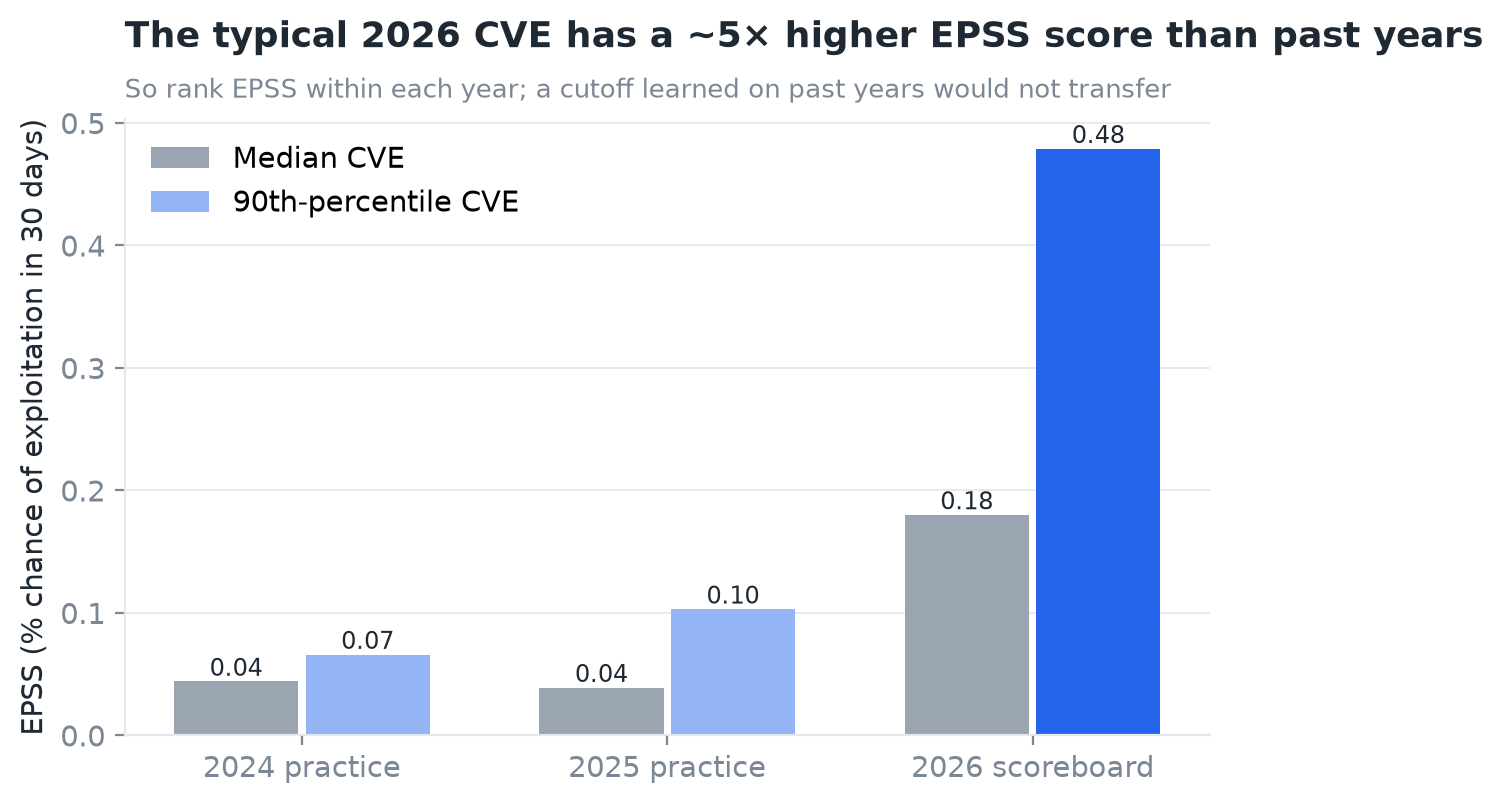
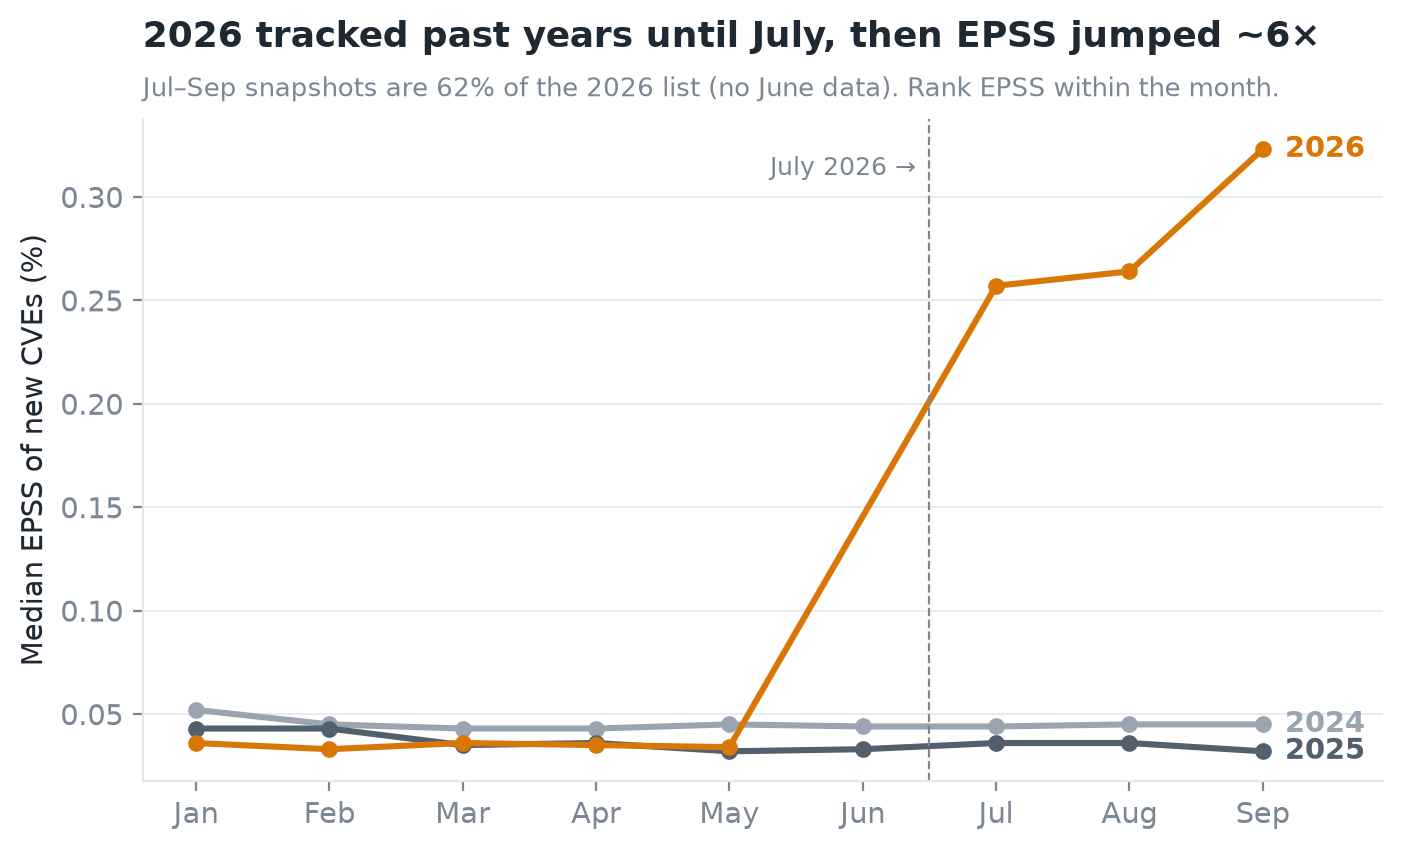
Follow v5 headline model; EPSS chart shows the July 2026 step; write-up, script and dashboard updated

diff --git a/site/story.js b/site/story.js
@@ -382,7 +382,7 @@
     });
     // the difference with its range
     const yd = H * 0.72, xd = d3.scaleLinear([-6, 10], [mL, W - mR]);
-    const [lo, hi] = h.diff_vs_baseline_cve_level_90, diff = h.pooled_hits_bag - h.baseline_pooled_hits;
+    const [lo, hi] = D.diff90, diff = h.pooled_hits_bag - h.baseline_pooled_hits;
     svg.append("text").attr("class", "lbl-big").attr("x", mL).attr("y", yd - 40).text("Our edge, with its 90% uncertainty range");
     svg.append("line").attr("x1", xd(0)).attr("x2", xd(0)).attr("y1", yd - 22).attr("y2", yd + 22).attr("stroke", C.muted).attr("stroke-dasharray", "3 3");
     svg.append("text").attr("class", "lbl-mute").attr("x", xd(0)).attr("y", yd + 40).attr("text-anchor", "middle").text("no difference");

diff --git a/site/index.html b/site/index.html
@@ -59,6 +59,7 @@
       <section class="step" data-scene="blind" data-step="2">
         <p class="lede">Our model caught <strong class="mint" data-key="blind.ours">2</strong> of the 44.</p>
         <p>That's small, and we won't pretend it isn't. But zero to two is the first sign of a signal the usual tools don't have: <em>the words</em>.</p>
+        <p class="fine">Blind-spot breakdown measured on our v4 model; the final v5 catches the same totals (12 + 9).</p>
       </section>
       <section class="step" data-scene="read" data-step="0">
         <p class="lede">What <strong>IBM Granite</strong> reads</p>

diff --git a/site/style.css b/site/style.css
@@ -43,6 +43,7 @@ code { font-size: .85em; color: var(--ink-2); }
 .step p { margin: 0 0 14px; color: var(--ink-2); }
 .step .lede { font: 600 clamp(24px, 2.4vw, 34px)/1.25 var(--serif); color: var(--ink); }
 .ember { color: var(--ember-glow); }
+.step p.fine { font-size: 13px; color: var(--muted); }
 .mint { color: var(--mint-glow); }
 .mute-num { color: var(--ink); }
 

diff --git a/src/b/charts.py b/src/b/charts.py
@@ -11,6 +11,7 @@ Each chart is drawn only if its inputs exist, so this can be rerun as files land
   leakage.png        honest vs leaky model hits (outputs/leakage_results.csv, issue #8)
 """
 import json
+import re
 
 import numpy as np
 import pandas as pd
@@ -22,6 +23,20 @@ from src.common.paths import OUT_DIR, REPO_ROOT
 FIG_DIR = REPO_ROOT / "docs" / "figures"
 BASE_NAMES = {"baseline_cvss": "Highest CVSS", "baseline_epss": "Highest EPSS",
               "baseline_exploit_epss": "Public exploit,\nthen EPSS"}
+
+
+def diff90(h: dict):
+    """Pooled 90% range of (ours - best baseline) from Person A's headline.json (v4 and v5 formats)."""
+    return h.get("pooled", {}).get("diff_cve_level_90") or h["diff_vs_baseline_cve_level_90"]
+
+
+def mechanism_file():
+    """Newest outputs/vN_mechanism.csv in the gained/lost format (no 'comparison' column)."""
+    fs = sorted(OUT_DIR.glob("v*_mechanism.csv"), key=lambda p: int(re.findall(r"\d+", p.stem)[0]), reverse=True)
+    for f in fs:
+        if "comparison" not in pd.read_csv(f, nrows=1).columns:
+            return f
+    return None
 
 
 def _save(fig, name):
@@ -71,7 +86,7 @@ def baselines(plt):
     hp = OUT_DIR / "headline.json"
     if hp.exists() and len(models):
         h = json.loads(hp.read_text())
-        lo_, hi_ = h["diff_vs_baseline_cve_level_90"]
+        lo_, hi_ = diff90(h)
         note += (f" Ours vs best rule, both years: {h['pooled_hits_bag'] - h['baseline_pooled_hits']:+d} "
                  f"(90% range {lo_:+.0f} to {hi_:+.0f}), so the gain is within the noise.")
     fig.text(0.01, -0.02, note, color=MUTED, fontsize=8.5)
@@ -129,24 +144,27 @@ def drift(plt):
     pools = {"2024": "replica_2024.parquet", "2025": "replica_2025.parquet", "2026": "scoreboard_features.parquet"}
     if not all((OUT_DIR / f).exists() for f in pools.values()):
         return
-    q = {y: pd.read_parquet(OUT_DIR / f, columns=["epss"])["epss"].dropna().quantile([0.5, 0.9]) * 100
-         for y, f in pools.items()}
-    fig, ax = plt.subplots(figsize=(7, 4))
-    x = np.arange(3)
-    med = [q[y][0.5] for y in pools]
-    p90 = [q[y][0.9] for y in pools]
-    ax.bar(x - 0.18, med, 0.34, color=GREYS[0], label="Median CVE")
-    ax.bar(x + 0.18, p90, 0.34, color=[ACCENT_LIGHT, ACCENT_LIGHT, ACCENT], label="90th-percentile CVE")
-    for xi, v in zip(x, med):
-        ax.text(xi - 0.18, v, f"{v:.2f}", ha="center", va="bottom", fontsize=8.5, color=INK)
-    for xi, v in zip(x, p90):
-        ax.text(xi + 0.18, v, f"{v:.2f}", ha="center", va="bottom", fontsize=8.5, color=INK)
-    ax.set_xticks(x, ["2024 practice", "2025 practice", "2026 scoreboard"])
-    ax.set_ylabel("EPSS (% chance of exploitation in 30 days)")
-    ratio = q["2026"][0.5] / q["2025"][0.5]
-    titles(ax, f"The typical 2026 CVE has a ~{ratio:.0f}× higher EPSS score than past years",
-           "So rank EPSS within each year; a cutoff learned on past years would not transfer")
-    ax.legend(loc="upper left")
+    fig, ax = plt.subplots(figsize=(8, 4.3))
+    med = {}
+    for (y, f), color in zip(pools.items(), (GREYS[0], GREYS[2], WARN)):
+        d = pd.read_parquet(OUT_DIR / f, columns=["snapshot_month", "epss"])
+        m = d.groupby("snapshot_month")["epss"].median() * 100
+        mo = m.index.str[-2:].astype(int)
+        med[y] = m
+        ax.plot(mo, m.values, marker="o", ms=5, lw=2.2, color=color, label=y)
+        ax.annotate(y, (mo[-1], m.values[-1]), xytext=(8, 0), textcoords="offset points", color=color,
+                    fontweight="bold", va="center")
+    late = pd.read_parquet(OUT_DIR / pools["2026"], columns=["snapshot_month", "epss"])
+    past = pd.concat([pd.read_parquet(OUT_DIR / pools[y], columns=["epss"]) for y in ("2024", "2025")])["epss"].median() * 100
+    late_med = late[late["snapshot_month"] >= "2026-07"]["epss"].median() * 100
+    share = (late["snapshot_month"] >= "2026-07").mean()
+    ax.axvline(6.5, color=MUTED, lw=0.8, ls="--")
+    ax.text(6.4, ax.get_ylim()[1] * 0.92, "July 2026 →", ha="right", color=MUTED, fontsize=9)
+    ax.set_xticks(range(1, 10), ["Jan", "Feb", "Mar", "Apr", "May", "Jun", "Jul", "Aug", "Sep"])
+    ax.set_xlim(0.6, 9.9)
+    ax.set_ylabel("Median EPSS of new CVEs (%)")
+    titles(ax, f"2026 tracked past years until July, then EPSS jumped ~{late_med / past:.0f}×",
+           f"Jul–Sep snapshots are {share:.0%} of the 2026 list (no June data). Rank EPSS within the month.")
     ax.grid(axis="x", visible=False)
     _save(fig, "drift_epss.png")
     plt.close(fig)
@@ -199,10 +217,11 @@ def blind_spot_counts():
     res = runlog.results()
     if not bp.exists() or res.empty:
         return None
-    if (OUT_DIR / "v4_mechanism.csv").exists():
-        m = pd.read_csv(OUT_DIR / "v4_mechanism.csv")
-        best = runlog.latest_model(res)
-        comps = {runlog.model_name(best): m}
+    mf = mechanism_file()
+    if mf is not None:
+        m = pd.read_csv(mf)
+        n = re.findall(r"\d+", mf.stem)[0]  # the model version the breakdown was measured on
+        comps = {runlog.model_name(f"v{n}_bag"): m}
     elif (OUT_DIR / "v2_mechanism.csv").exists():
         m = pd.read_csv(OUT_DIR / "v2_mechanism.csv")
         comps = {runlog.model_name(v): m[m["comparison"] == f"{v}_vs_baseline"] for v in ("v1_lgbm", "v2_lgbm")}

diff --git a/src/b/export_story.py b/src/b/export_story.py
@@ -12,7 +12,7 @@ import numpy as np
 import pandas as pd
 
 from src.b import runlog
-from src.b.charts import blind_spot_counts
+from src.b.charts import blind_spot_counts, diff90, mechanism_file
 from src.b.explain import cna_name, nearest_kev
 from src.b.text_features import FLAGS
 from src.common.paths import DATA_DIR, OUT_DIR, REPO_ROOT
@@ -52,7 +52,7 @@ def main():
     res = runlog.results()
     best = runlog.latest_model(res)
     head = json.loads((OUT_DIR / "headline.json").read_text())
-    story = {"model": runlog.model_name(best), "headline": head}
+    story = {"model": runlog.model_name(best), "headline": head, "diff90": diff90(head)}
 
     # 1. the field
     prac_n = len(P[2024]) + len(P[2025])
@@ -76,7 +76,7 @@ def main():
         "simple_caught_blind": int(b[b["group"] == "blind-spot"]["Public exploit, then EPSS"].sum()),
         "ours_caught_visible": int(b[b["group"] == "flagged"][mcol].sum()),
         "ours_caught_blind": int(b[b["group"] == "blind-spot"][mcol].sum()),
-        "ours_blind_cves": pd.read_csv(OUT_DIR / "v4_mechanism.csv").query("group == 'blind-spot' and kind == 'gained'")
+        "ours_blind_cves": pd.read_csv(mechanism_file()).query("group == 'blind-spot' and kind == 'gained'")
         [["cve_id", "kev_vendor", "test_replica"]].to_dict("records"),
     }
 

diff --git a/app/dashboard.py b/app/dashboard.py
@@ -210,8 +210,9 @@ with tabs[3]:
         c1.metric("Spot-the-year score", f"AUC {auc:.2f}", help="0.5 = indistinguishable, 1.0 = perfectly separable")
         c1.markdown(
             "The 2026 scoreboard is **clearly different** from the practice years. The biggest change is "
-            "EPSS: the typical 2026 score is several times higher, so a fixed EPSS threshold tuned on past "
-            "years won't transfer. Ranking *within* the year is safer." if auc >= 0.75 else
+            "EPSS, and it's a mid-year step: January–May 2026 looks like past years, but from the July 2026 "
+            "snapshot the typical score is about 6× higher (62% of the list). A fixed EPSS threshold tuned on "
+            "past years won't transfer, so we rank *within* each month." if auc >= 0.75 else
             "The 2026 scoreboard looks broadly similar to the practice years.")
         colors = [WARN if v > 0.25 else ACCENT if v > 0.1 else GREYS[0] for v in shift["psi_2025_vs_2026"]]
         fig = go.Figure(go.Bar(x=shift["psi_2025_vs_2026"], y=shift["feature"], orientation="h",

diff --git a/src/b/runlog.py b/src/b/runlog.py
@@ -47,6 +47,14 @@ def latest_model(res: pd.DataFrame) -> str | None:
     """The model Person A marks as 'headline model' in the runlog notes; otherwise the newest model version with
     results for both test years (prefers LightGBM on ties)."""
     m = res[~res["is_baseline"]]
+    hp = OUT_DIR / "headline.json"
+    if hp.exists():  # Person A's headline file names the primary model, e.g. "v5: 20-seed LightGBM bag, ..."
+        import json
+        v = re.match(r"v(\d+)", json.loads(hp.read_text()).get("primary", ""))
+        if v:
+            for kind in ("bag", "lgbm"):
+                if f"v{v[1]}_{kind}" in set(m["version"]):
+                    return f"v{v[1]}_{kind}"
     if "headline" in m and m["headline"].any():
         h = m[m["headline"]].sort_values("timestamp")
         return h.iloc[-1]["version"]

diff --git a/docs/writeup_person_b.md b/docs/writeup_person_b.md
@@ -24,11 +24,12 @@ where text and vendor history add signal the standard feeds don't have.
   differences are within seed noise.
 
 ## 3. The 2026 scoreboard is not like past years (drift)
-A classifier can tell 2025 practice CVEs from 2026 scoreboard CVEs with **ROC AUC 0.93**. The main reason is
-EPSS: the median 2026 EPSS is about **4–5× higher** (PSI 1.70 vs 2025). A threshold or raw-score split learned
-on past years would land in the wrong place, so v4 drops raw EPSS and uses within-pool ranks for every feature
-that shifted (PSI > 0.25). Assigner mix (PSI 0.66) and time-to-snapshot (0.49) also moved.
-*Figures: `drift_psi.png`, `drift_epss.png`.*
+A classifier can tell 2025 practice CVEs from 2026 scoreboard CVEs with **ROC AUC 0.93**, and EPSS is the main
+reason. The shift is a **mid-year step**: January–May 2026 looks like 2024–25 (median EPSS ~0.035%), but from the
+**July 2026 snapshot the median is ~6× higher** (0.274% vs 0.043% in 2024–25). Those July–September snapshots
+are **62%** of the 2026 list. A threshold or raw-score split learned on past years would land in the wrong place,
+so v4 drops raw EPSS and ranks it within each snapshot month. Assigner mix (PSI 0.66) and time-to-snapshot (0.49)
+also moved. *Figures: `drift_psi.png`, `drift_epss.png`.*
 
 ## 4. Leakage experiment: what cheating would look like
 Same v4 model, plus columns NVD fills in *after* a CVE gets attention (analysis status, reference and product

diff --git a/docs/video_script.md b/docs/video_script.md
@@ -36,8 +36,8 @@ That's a small edge, and we show the uncertainty range rather than overclaim."
 
 **1:35–1:50 · Two discoveries that protect the result** *(Aba)*
 [drift_epss.png, then leakage.png]
-"Two things we caught. One: EPSS scores in 2026 are about five times higher than in past years, so we rank within
-the year instead of trusting raw scores. Two: columns filled in after an attack would inflate our score from 21 to
+"Two things we caught. One: from July 2026, risk scores suddenly jumped about six times, so we compare each
+hole only with others from the same month instead of trusting raw scores. Two: columns filled in after an attack would inflate our score from 21 to
 29. Every exploited vulnerability is marked 'Analyzed' in today's NVD, so we banned those columns."
 
 **1:50–2:00 · Close** *(Jack)*
